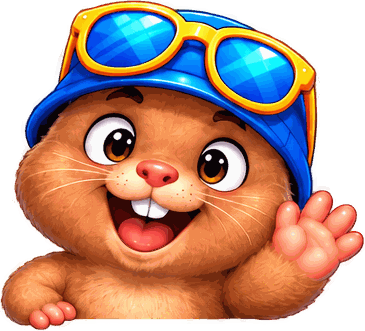
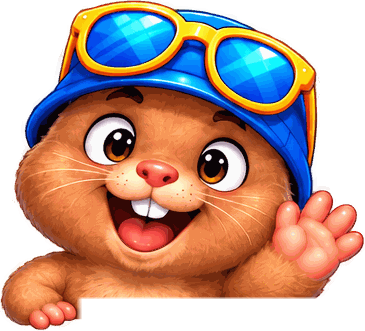
mole v966: 출석 화면 — 판 그림 위 손가락·나무 조각 삭제, 두더지 손을 판 앞으로(몸통은 판 뒤), 왼쪽 손톱 끝 마감, 문구 글자 87%
Claude-Session: https://claude.ai/code/session_01GirAya7RX91uMc859bmUVe

Changed region(s): [[0.211, 0.8761, 0.874, 0.9668]]

diff --git a/mole/index.html b/mole/index.html
@@ -873,7 +873,7 @@
         <!-- 배포 버전 표식(스크린샷으로 어느 버전인지 확인용) — 화면 좌하단에 두면 다른 UI에
              가려 잘 안 보인다는 사용자 지적으로, 하트 아이콘(다이얼패드 1번 칸) 바로 위로 이동. -->
         <div class="h2-preload" aria-hidden="true"></div><!-- v951: 게임 중 버튼 색(초록·노랑·빨강·분홍·회색) 미리 읽어 두기 — 처음 바뀔 때 깜빡임 방지 -->
-        <div id="build-tag" aria-hidden="true">v965</div>
+        <div id="build-tag" aria-hidden="true">v966</div>
         <!-- 피버타임(터치캐치 보너스타임) 전광판 — 버튼보드 자리를 통째로 덮는 오버레이,
              평소엔 hidden, 피버 중에만 콤보/잔여시간 표시(사용자 지정: "전광판처럼"). -->
         <div id="fever-scoreboard" class="fever-scoreboard" hidden>
@@ -1127,7 +1127,7 @@ window.FGH.rollOut = function (el, done) {
       } else {
         // ?v= 로 매 배포마다 URL을 바꿔서 GitHub Pages의 sw.js 캐시(max-age=600)를 무조건 우회 —
         // 안 그러면 배포 직후에도 최대 10분간 옛 서비스워커가 안 갈리는 경우가 있었음(사용자 보고).
-        navigator.serviceWorker.register('sw.js?v=965').catch(function () {});
+        navigator.serviceWorker.register('sw.js?v=966').catch(function () {});
       }
     });
   }

diff --git a/mole/style.css b/mole/style.css
@@ -6433,3 +6433,11 @@ html, body, .cosmic-bg { background: #2a190d; }
 #game-screen.gs-laneskill:not(.is-start) .lane-button--call .lane-item[data-slot="1"] { left: 70.5%; top: 70.5%; }
 #game-screen.gs-alipunch:not(.is-start) [data-region="12"] .lane-item[data-slot="0"] { left: 70.7%; top: 29.3%; }
 #game-screen.gs-alipunch:not(.is-start) [data-region="12"] .lane-item[data-slot="1"] { left: 29.5%; top: 70.5%; }
+/* v966(사용자 지정): 두더지 손은 아래 판 앞에 — 두더지만 판(z3) 위로(dr-top 쌓임맥락 해제, 광고판·문구판 순서는 그대로).
+   손이 판 테두리(윗면)에 6px 걸치게 내림. 손 사이 몸통 아래 6px는 그림에서 투명 처리(판 뒤로 들어간 것처럼). */
+#daily-screen .dr-top { z-index: auto; }
+#daily-screen .dr-mole { z-index: 4; }
+#daily-screen .dr-mole--l { bottom: calc(var(--w) * -0.0594); } /* 손톱 끝 둥글게 이어 그려 그림이 12px 길어진 만큼 보정 */
+#daily-screen .dr-mole--r { bottom: calc(var(--w) * -0.0604); }
+/* v966(사용자 지정): 문구가 오른쪽 두더지 손에 가려지던 것 — 글자 크기 87%(폭 173→150px) */
+#daily-screen .dr-plate { font-size: calc(var(--w) * 0.0225); }

diff --git a/mole/sw.js b/mole/sw.js
@@ -3,7 +3,7 @@
 // 폴백 전용으로만 갱신한다. (예전엔 stale-while-revalidate라 배포해도 "다음 실행"에야
 // 반영돼 사용자 체감 대기가 길었음 — 온라인=항상 최신, 오프라인=마지막 캐시로 변경.)
 // SHELL 목록 자체가 바뀔 때만 CACHE 를 올린다.
-const CACHE = 'mole-game-v965';
+const CACHE = 'mole-game-v966';
 
 // 화면별 BGM(audio/bgm-*.mp3)은 v275 부터 SHELL 에 포함 — 기본 켜짐(v272)이라 항상 필요하고,
 // 캐시가 안 돼 있으면 오프라인/느린망에서 재생 실패했음.
